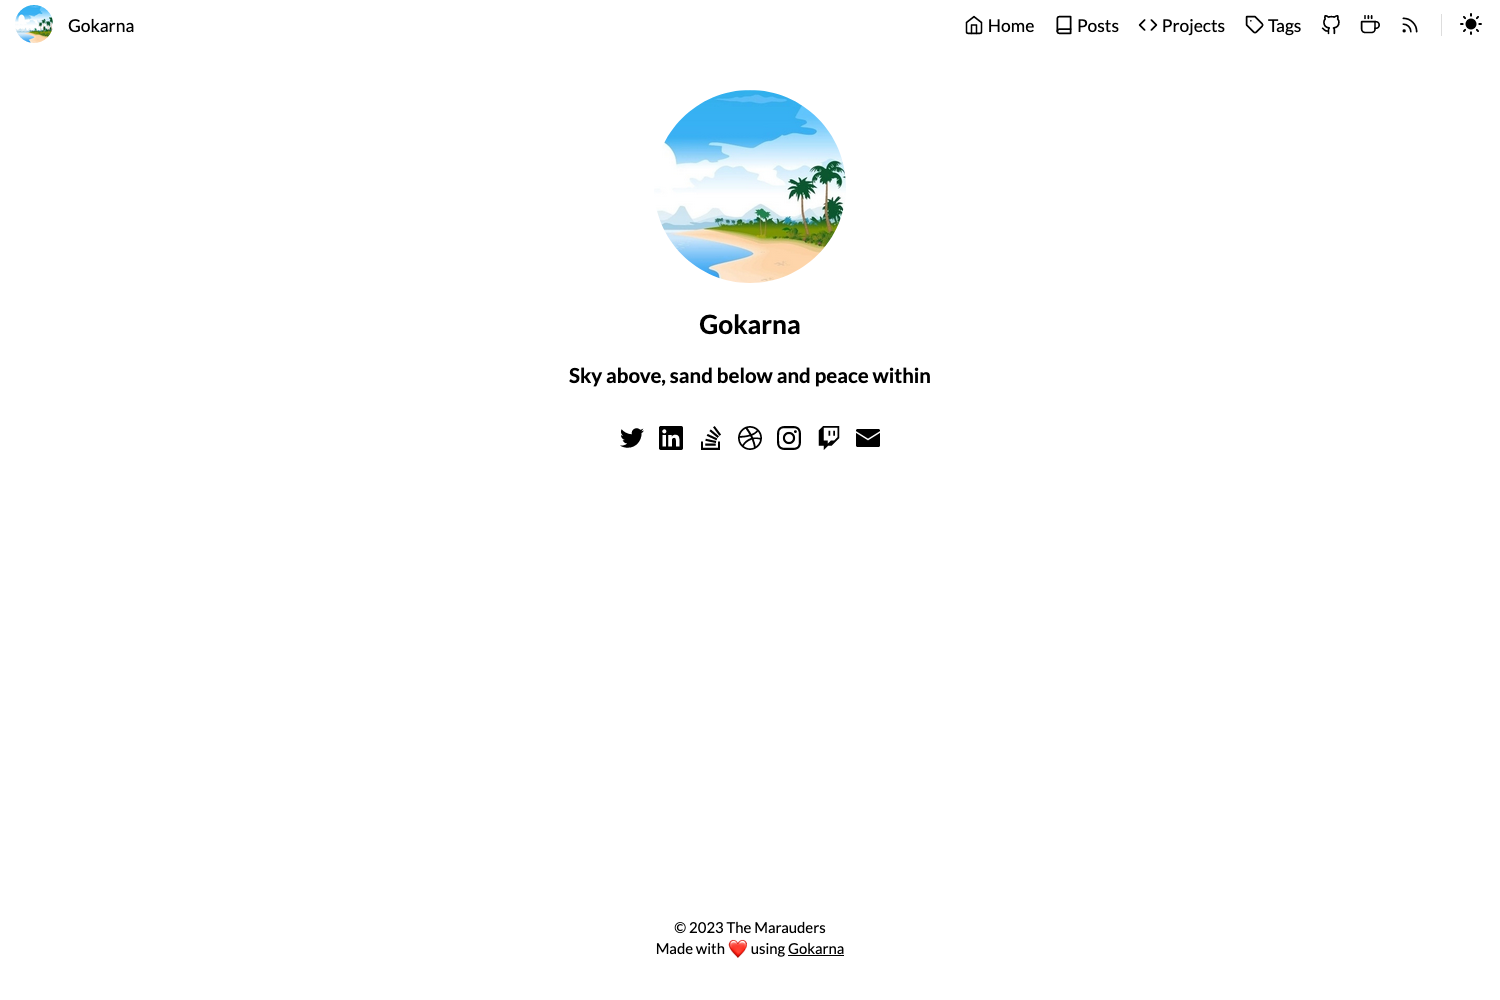
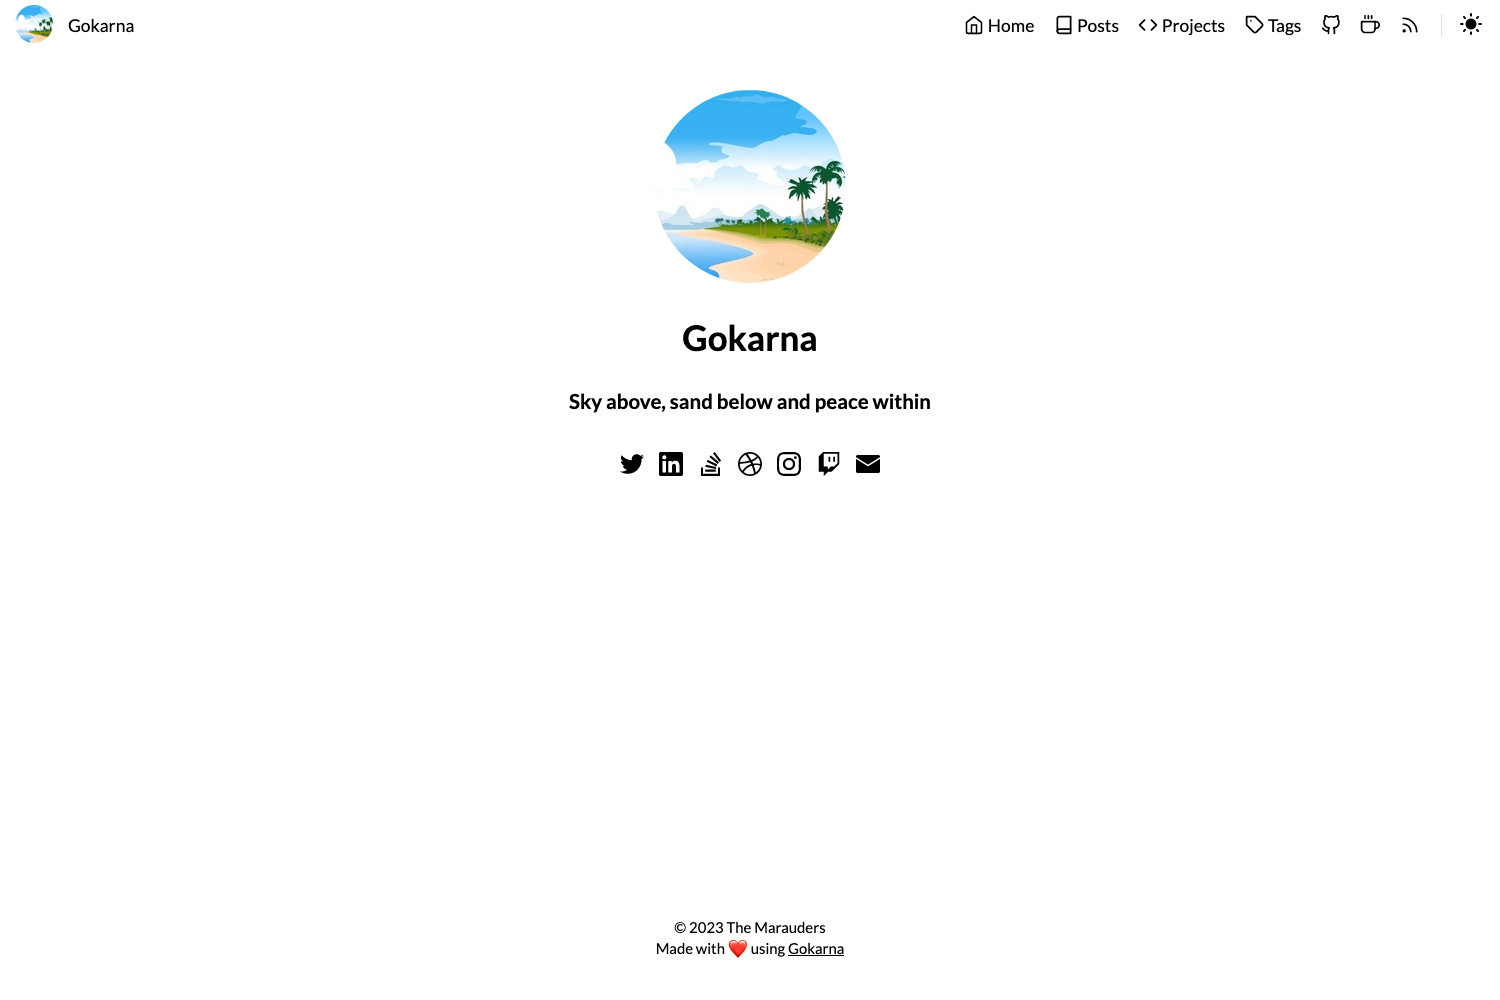
Increase heading font size (#183)

Changed region(s): [[0.368, 0.31, 0.6133, 0.496]]

diff --git a/assets/css/main.css b/assets/css/main.css
@@ -392,6 +392,10 @@ table td {
   width: 15rem;
 }
 
+.home-about h1 {
+  font-size: 2em;
+}
+
 .social-icons {
   text-align: center;
 }
